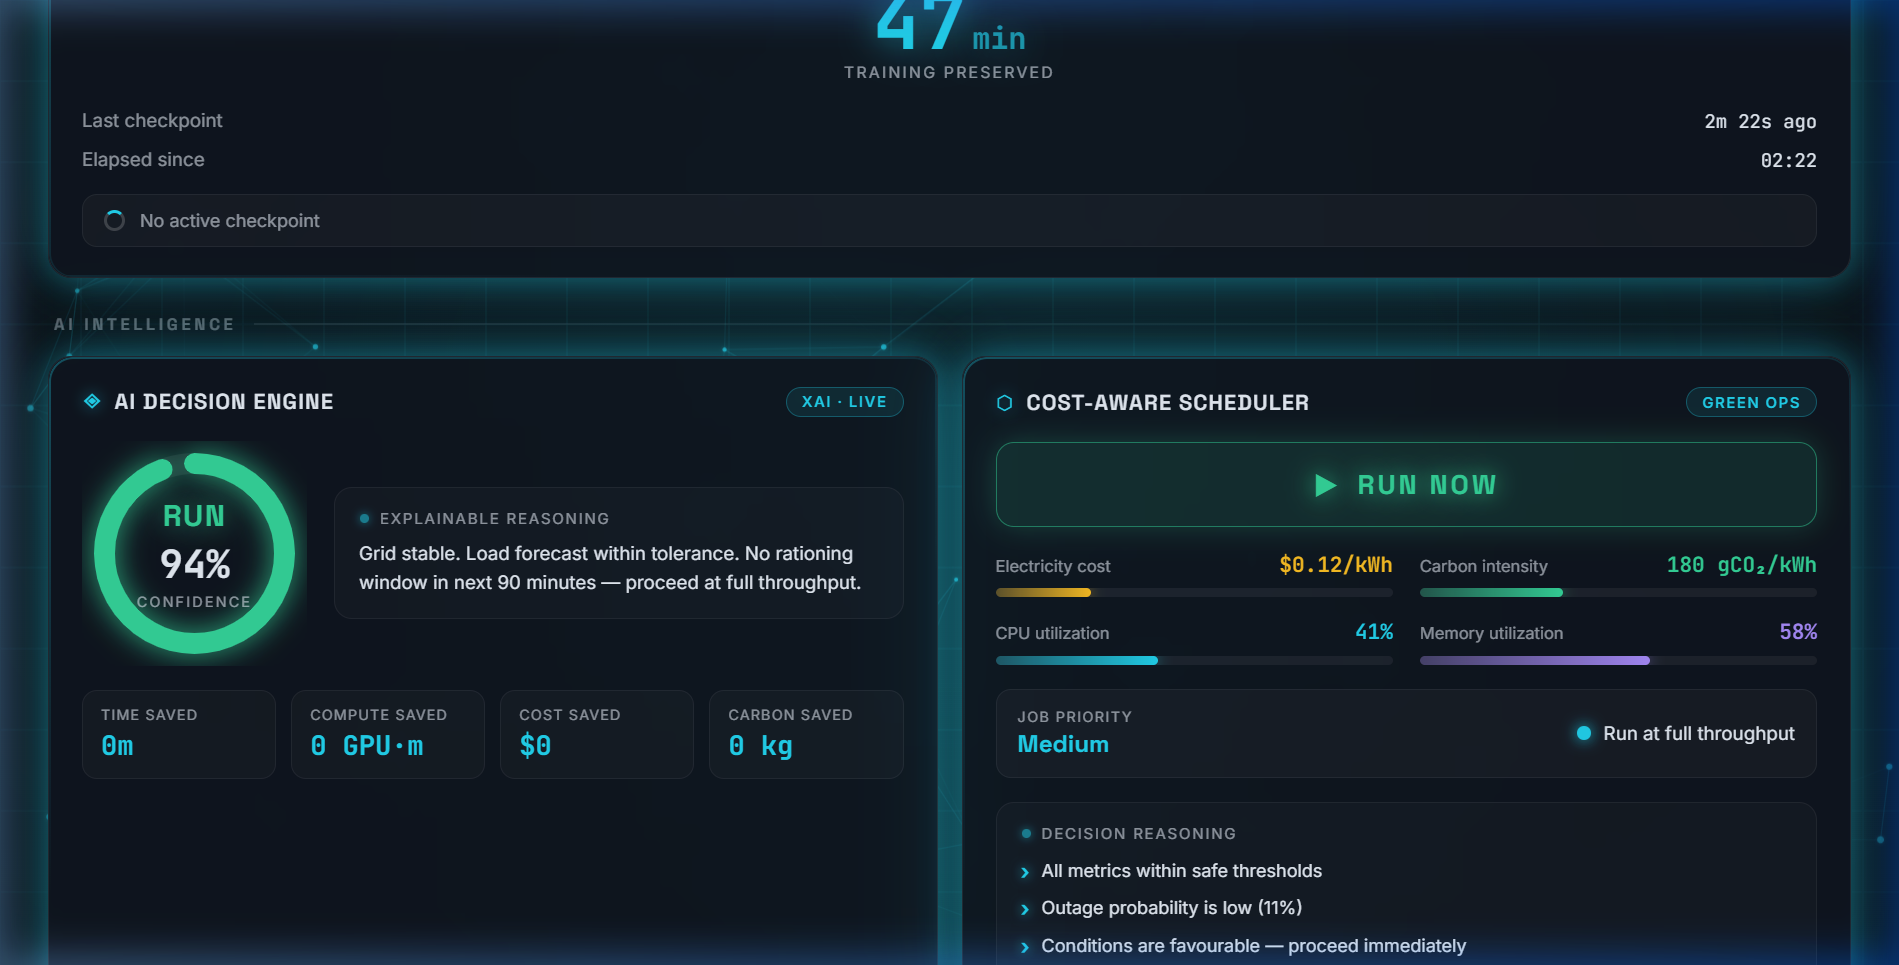
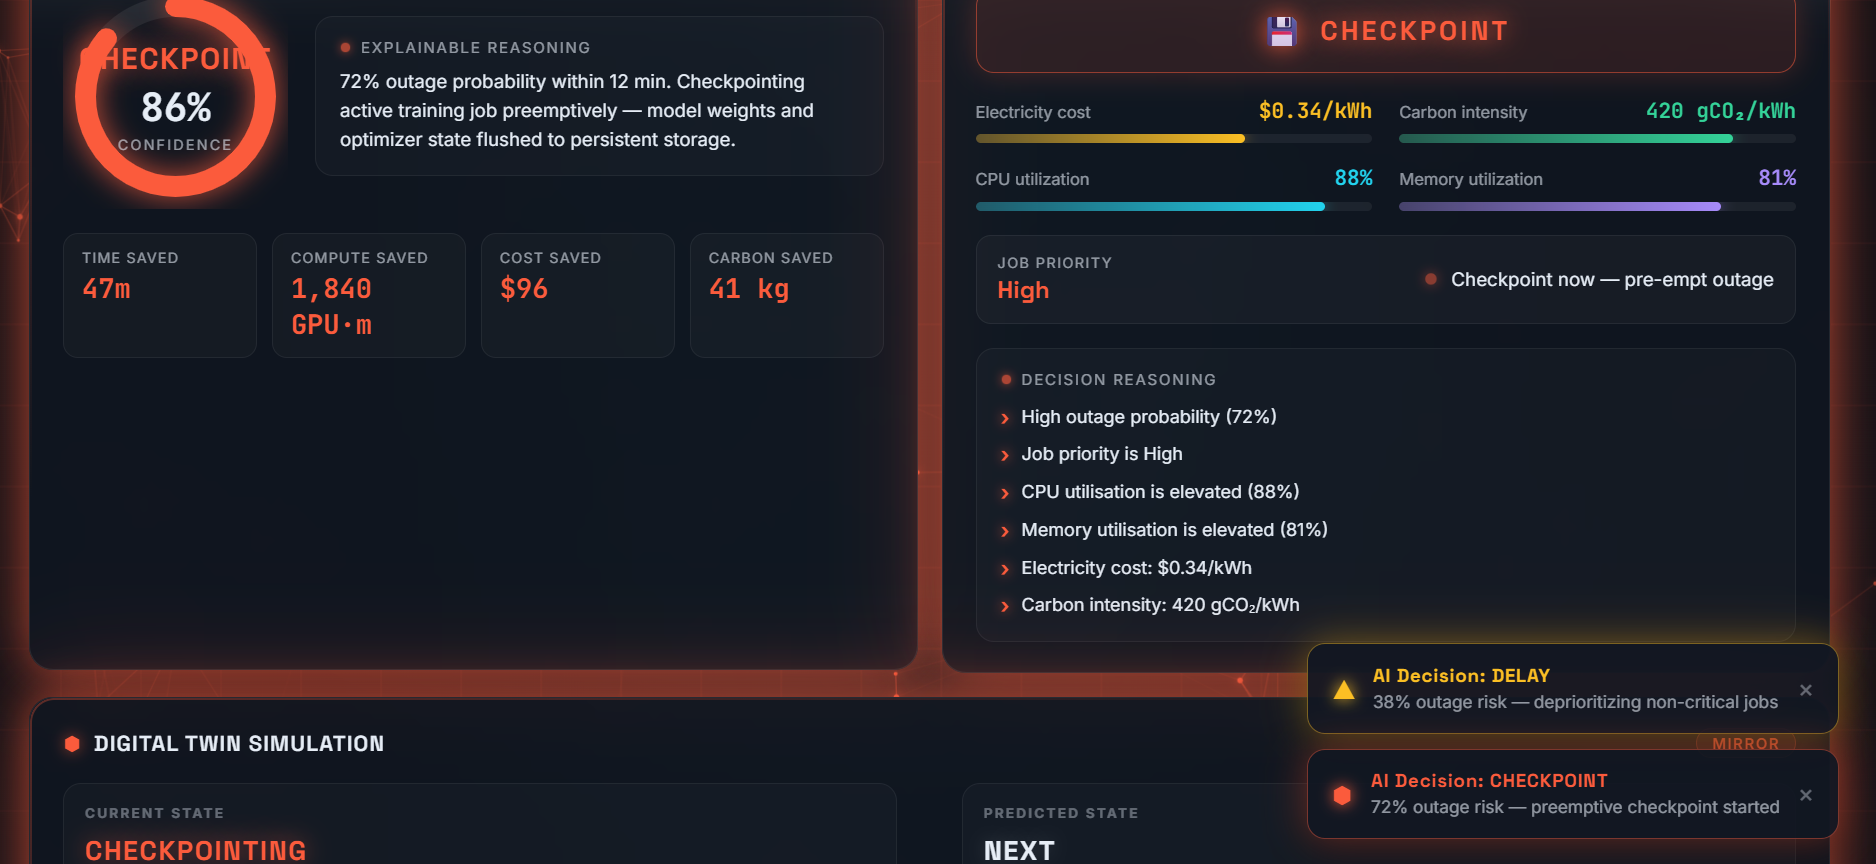
CICD

diff --git a/cost_aware_scheduler/README.md b/cost_aware_scheduler/README.md
@@ -1,0 +1,151 @@
+# 💰 Cost-Aware Scheduler
+
+Optimises CI/CD pipeline execution timing based on outage probability, resource utilisation, electricity cost, carbon intensity, and job priority.
+
+## How it works
+
+The scheduler uses a **severity-ordered rule chain** to evaluate 6 input metrics and output one of 4 decisions:
+
+```
+   ┌─────────────────────────────────────────────────────────┐
+   │                  SchedulerInput                         │
+   │  outage_probability, cpu, memory, electricity,          │
+   │  carbon_intensity, job_priority                         │
+   └───────────────────────┬─────────────────────────────────┘
+                           │
+              ┌────────────▼────────────┐
+              │  Extreme outage (≥90%)? │──── YES ──▶ PAUSE
+              └────────────┬────────────┘
+                           │ NO
+              ┌────────────▼────────────┐
+              │  High outage (≥65%)?    │
+              │  + High/Med priority?   │──── YES ──▶ CHECKPOINT
+              └────────────┬────────────┘
+                           │ NO (or Low priority → DELAY)
+              ┌────────────▼────────────┐
+              │  Moderate outage (≥40%) │
+              │  OR high CPU/Memory     │
+              │  OR high cost + carbon  │──── YES ──▶ DELAY
+              └────────────┬────────────┘
+                           │ NO
+                           ▼
+                        RUN_NOW
+```
+
+Every decision includes a **reasoning chain** — a list of human-readable explanations for why each factor contributed to the final decision.
+
+## Quick start
+
+```bash
+# Install
+pip install -r requirements.txt
+
+# Run tests (13/13)
+python -m pytest tests/ -v
+
+# Start API
+uvicorn api:app --port 8002
+```
+
+## API
+
+### `POST /schedule`
+
+Evaluate a scheduling decision with custom inputs:
+
+```bash
+curl -X POST http://localhost:8002/schedule \
+  -H "Content-Type: application/json" \
+  -d '{
+    "outage_probability": 0.72,
+    "cpu_percent": 88,
+    "memory_percent": 81,
+    "electricity_cost": 0.34,
+    "carbon_intensity": 420,
+    "job_priority": "High"
+  }'
+```
+
+Response:
+```json
+{
+  "decision": "CHECKPOINT",
+  "reason": [
+    "High outage probability (72%)",
+    "Job priority is High",
+    "CPU utilisation is elevated (88%)",
+    "Memory utilisation is elevated (81%)",
+    "Electricity cost: $0.34/kWh",
+    "Carbon intensity: 420 gCO₂/kWh"
+  ],
+  "input": { ... }
+}
+```
+
+### `GET /schedule`
+
+Auto-evaluate using simulated metrics + live prediction engine data:
+
+```bash
+curl http://localhost:8002/schedule
+```
+
+### `GET /metrics`
+
+Current simulated resource/cost metrics:
+
+```bash
+curl http://localhost:8002/metrics
+```
+
+### `GET /health`
+
+```bash
+curl http://localhost:8002/health
+```
+
+## Decision Matrix
+
+| Condition | Decision |
+|-----------|----------|
+| Extreme outage risk (≥90%) | **PAUSE** |
+| High outage (≥65%) + High/Medium priority | **CHECKPOINT** |
+| High outage (≥65%) + Low priority | **DELAY** |
+| Moderate outage (≥40%) | **DELAY** |
+| Very high CPU (≥90%) or Memory (≥90%) | **DELAY** |
+| High electricity (≥$0.25/kWh) + High carbon (≥400 gCO₂/kWh) | **DELAY** |
+| High priority overrides 1 minor delay signal | **RUN_NOW** |
+| All conditions favourable | **RUN_NOW** |
+
+## Files
+
+| File | Purpose |
+|------|---------|
+| `models.py` | `JobPriority`, `SchedulerAction`, `SchedulerInput`, `SchedulerDecision` |
+| `scheduler.py` | `CostAwareScheduler` class — the core rule-chain decision engine |
+| `simulators.py` | Time-varying sinusoidal simulators for CPU, memory, electricity, carbon |
+| `api.py` | FastAPI service with CORS, auto-integration with Prediction Engine |
+| `tests/test_scheduler.py` | 13 unit tests covering every path in the decision matrix |
+
+## Integration with the Orchestrator
+
+The scheduler is called automatically by `member2_orchestrator/orchestrator/core.py` on every polling cycle:
+
+1. Orchestrator fetches outage probability from Prediction Engine
+2. Orchestrator calls `_evaluate_scheduler()` with the probability + simulated metrics
+3. Scheduler returns decision + reasoning chain
+4. Both the state machine decision AND scheduler result are emitted in the event JSON
+5. Dashboard reads the `scheduler` field to render the Cost-Aware Scheduler panel
+
+If the scheduler fails for any reason, the orchestrator continues with its state machine alone — graceful degradation.
+
+## Simulators
+
+The simulators produce realistic day-cycle patterns using sinusoidal functions with noise:
+
+- **CPU**: Peaks mid-day (50–80%), low overnight (15–30%)
+- **Memory**: Follows CPU with slight lag and offset
+- **Electricity cost**: Peaks during afternoon demand ($0.08–$0.35/kWh)
+- **Carbon intensity**: Inverse of solar generation (80–500 gCO₂/kWh)
+
+All simulators are stateless pure functions keyed on `time.time()`, making them deterministic for a given timestamp.